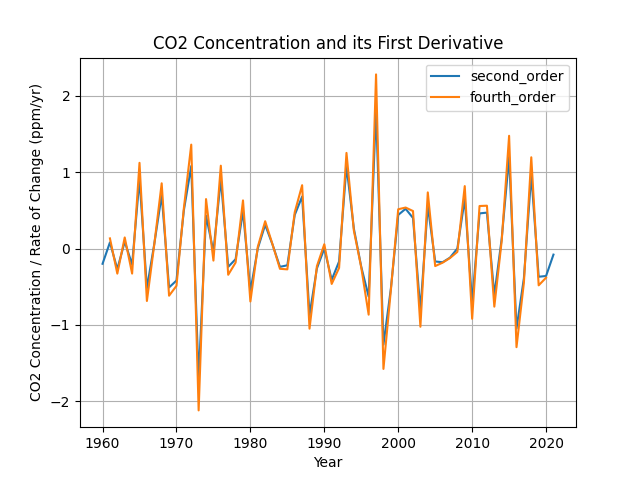
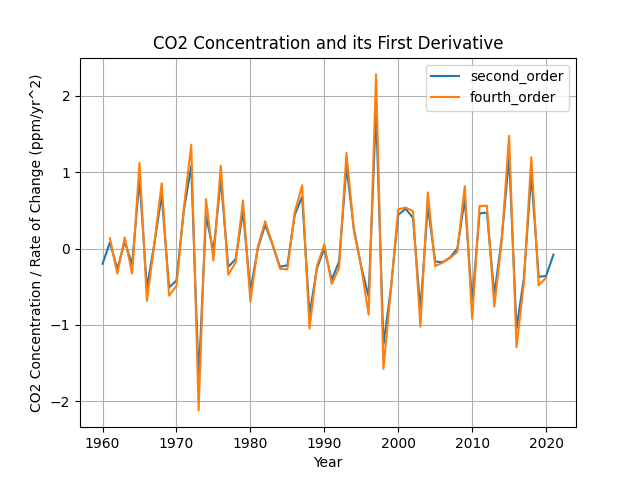
updated second derivative

Changed region(s): [[0.0312, 0.1562, 0.0625, 0.875]]

diff --git a/src/second_derivative.py b/src/second_derivative.py
@@ -29,7 +29,7 @@ def main(xd, yd):
     plt.plot(xd, order_2, label='second_order')
     plt.plot(xd, order_4, label='fourth_order')
     plt.xlabel('Year')
-    plt.ylabel('CO2 Concentration / Rate of Change (ppm/yr)')
+    plt.ylabel('CO2 Concentration / Rate of Change (ppm/yr^2)')
     plt.title('CO2 Concentration and its First Derivative')
     plt.legend()
     plt.grid()
